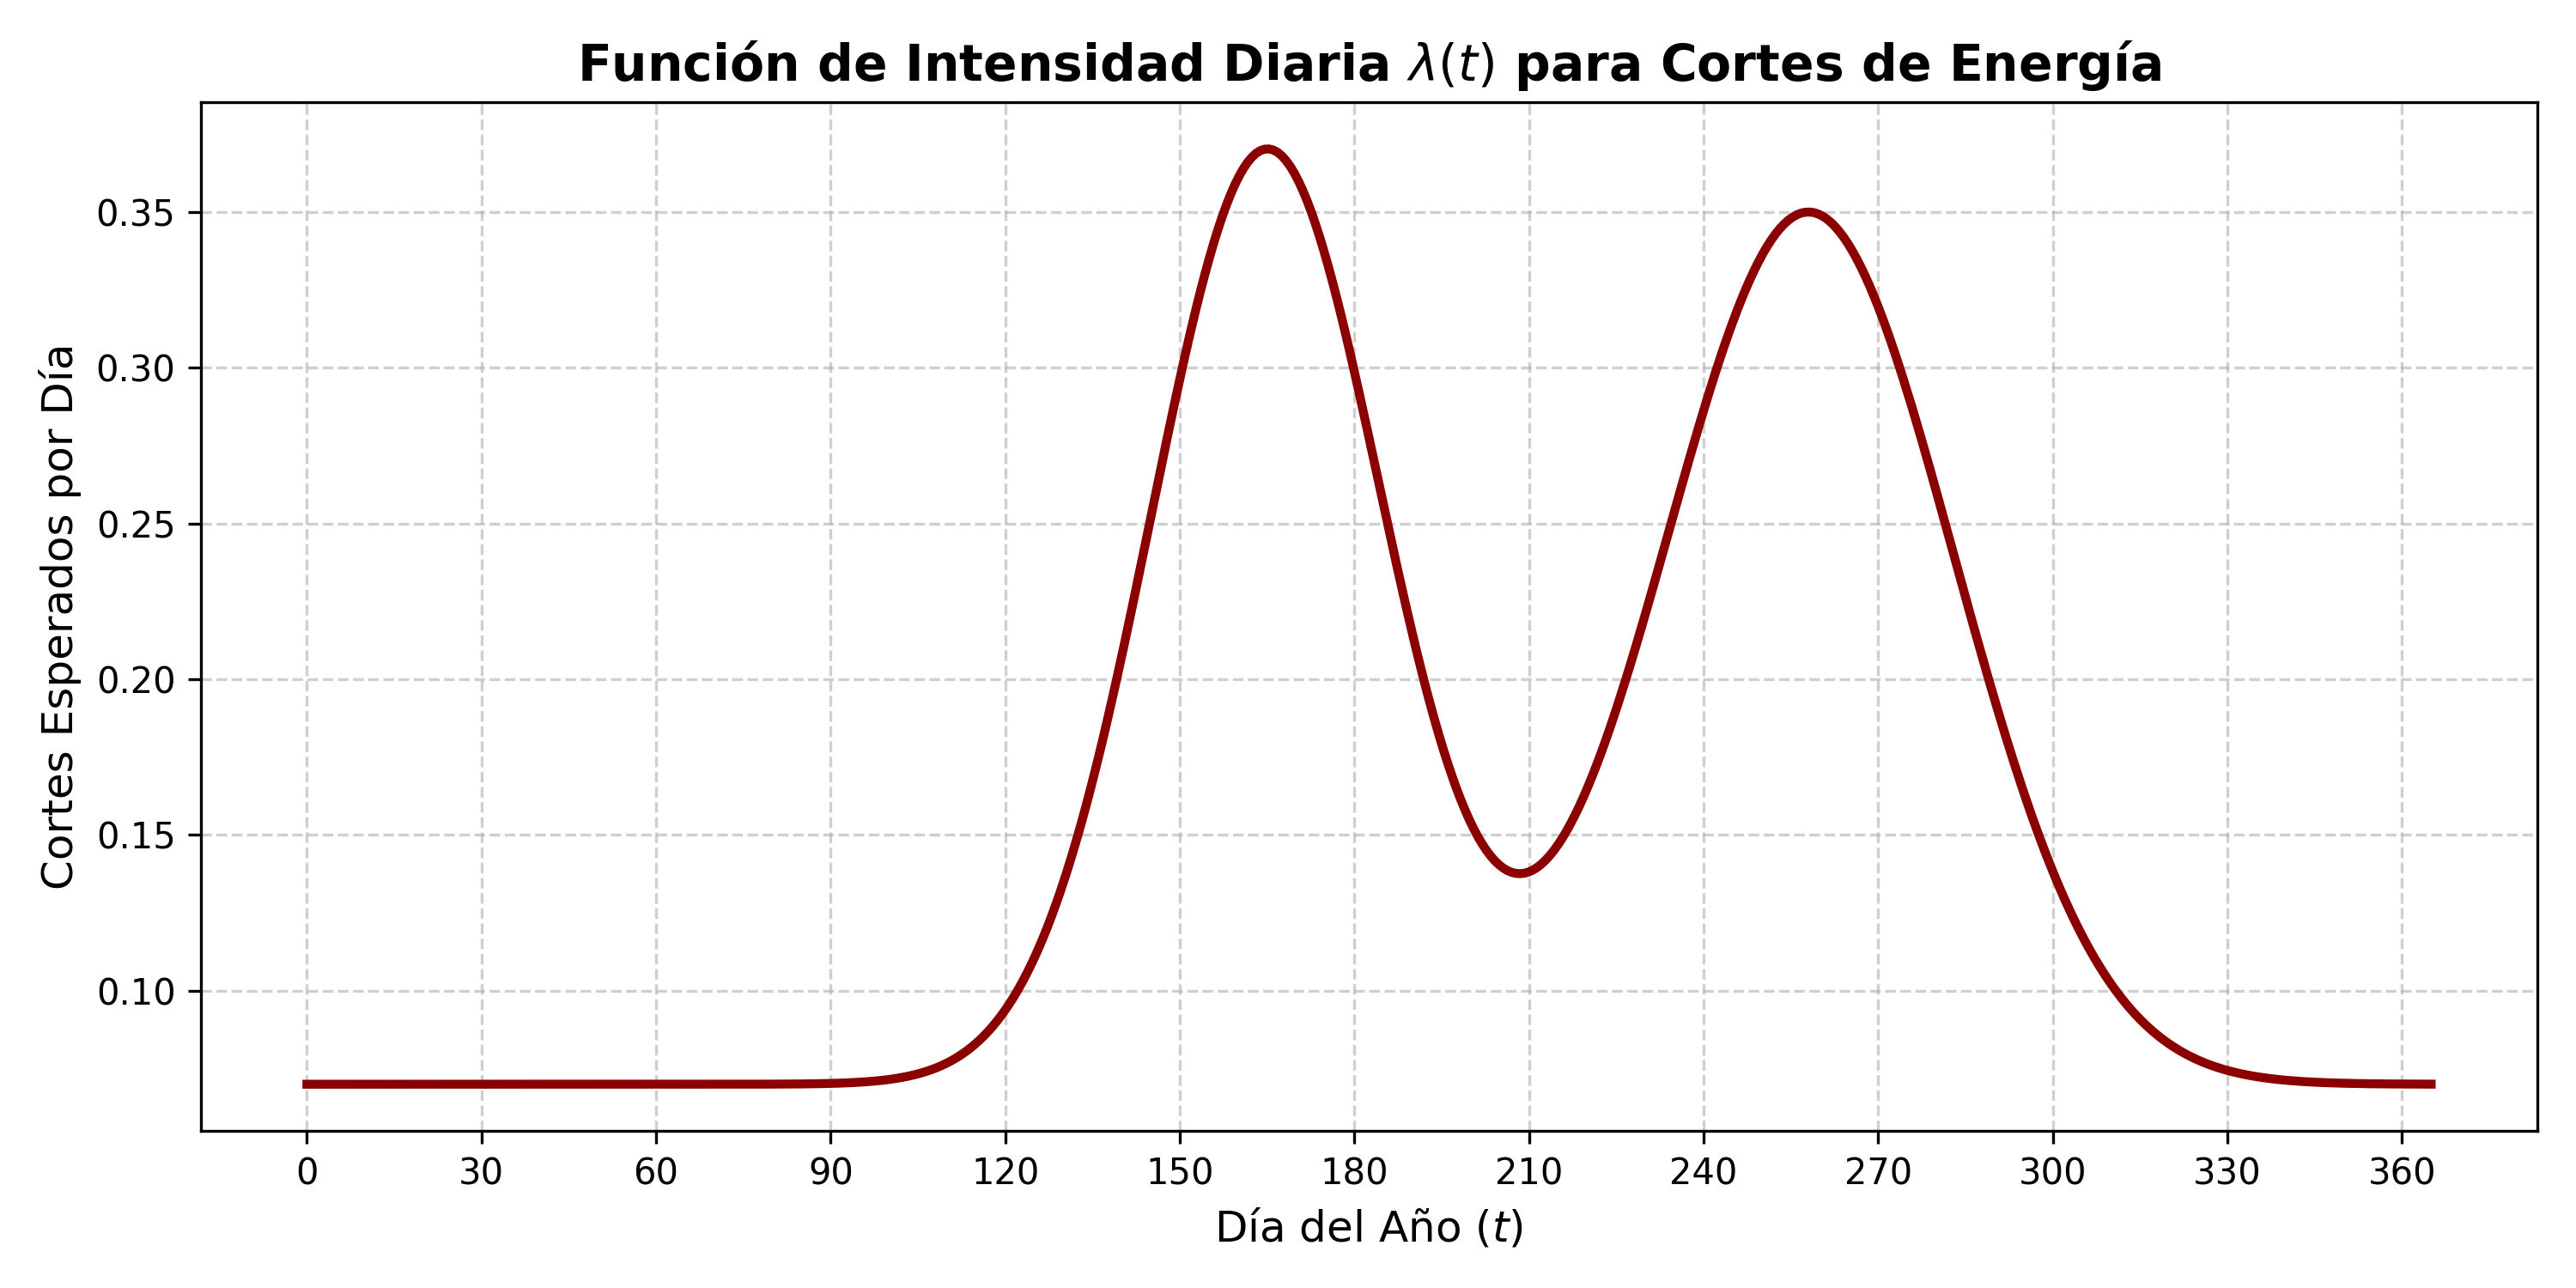
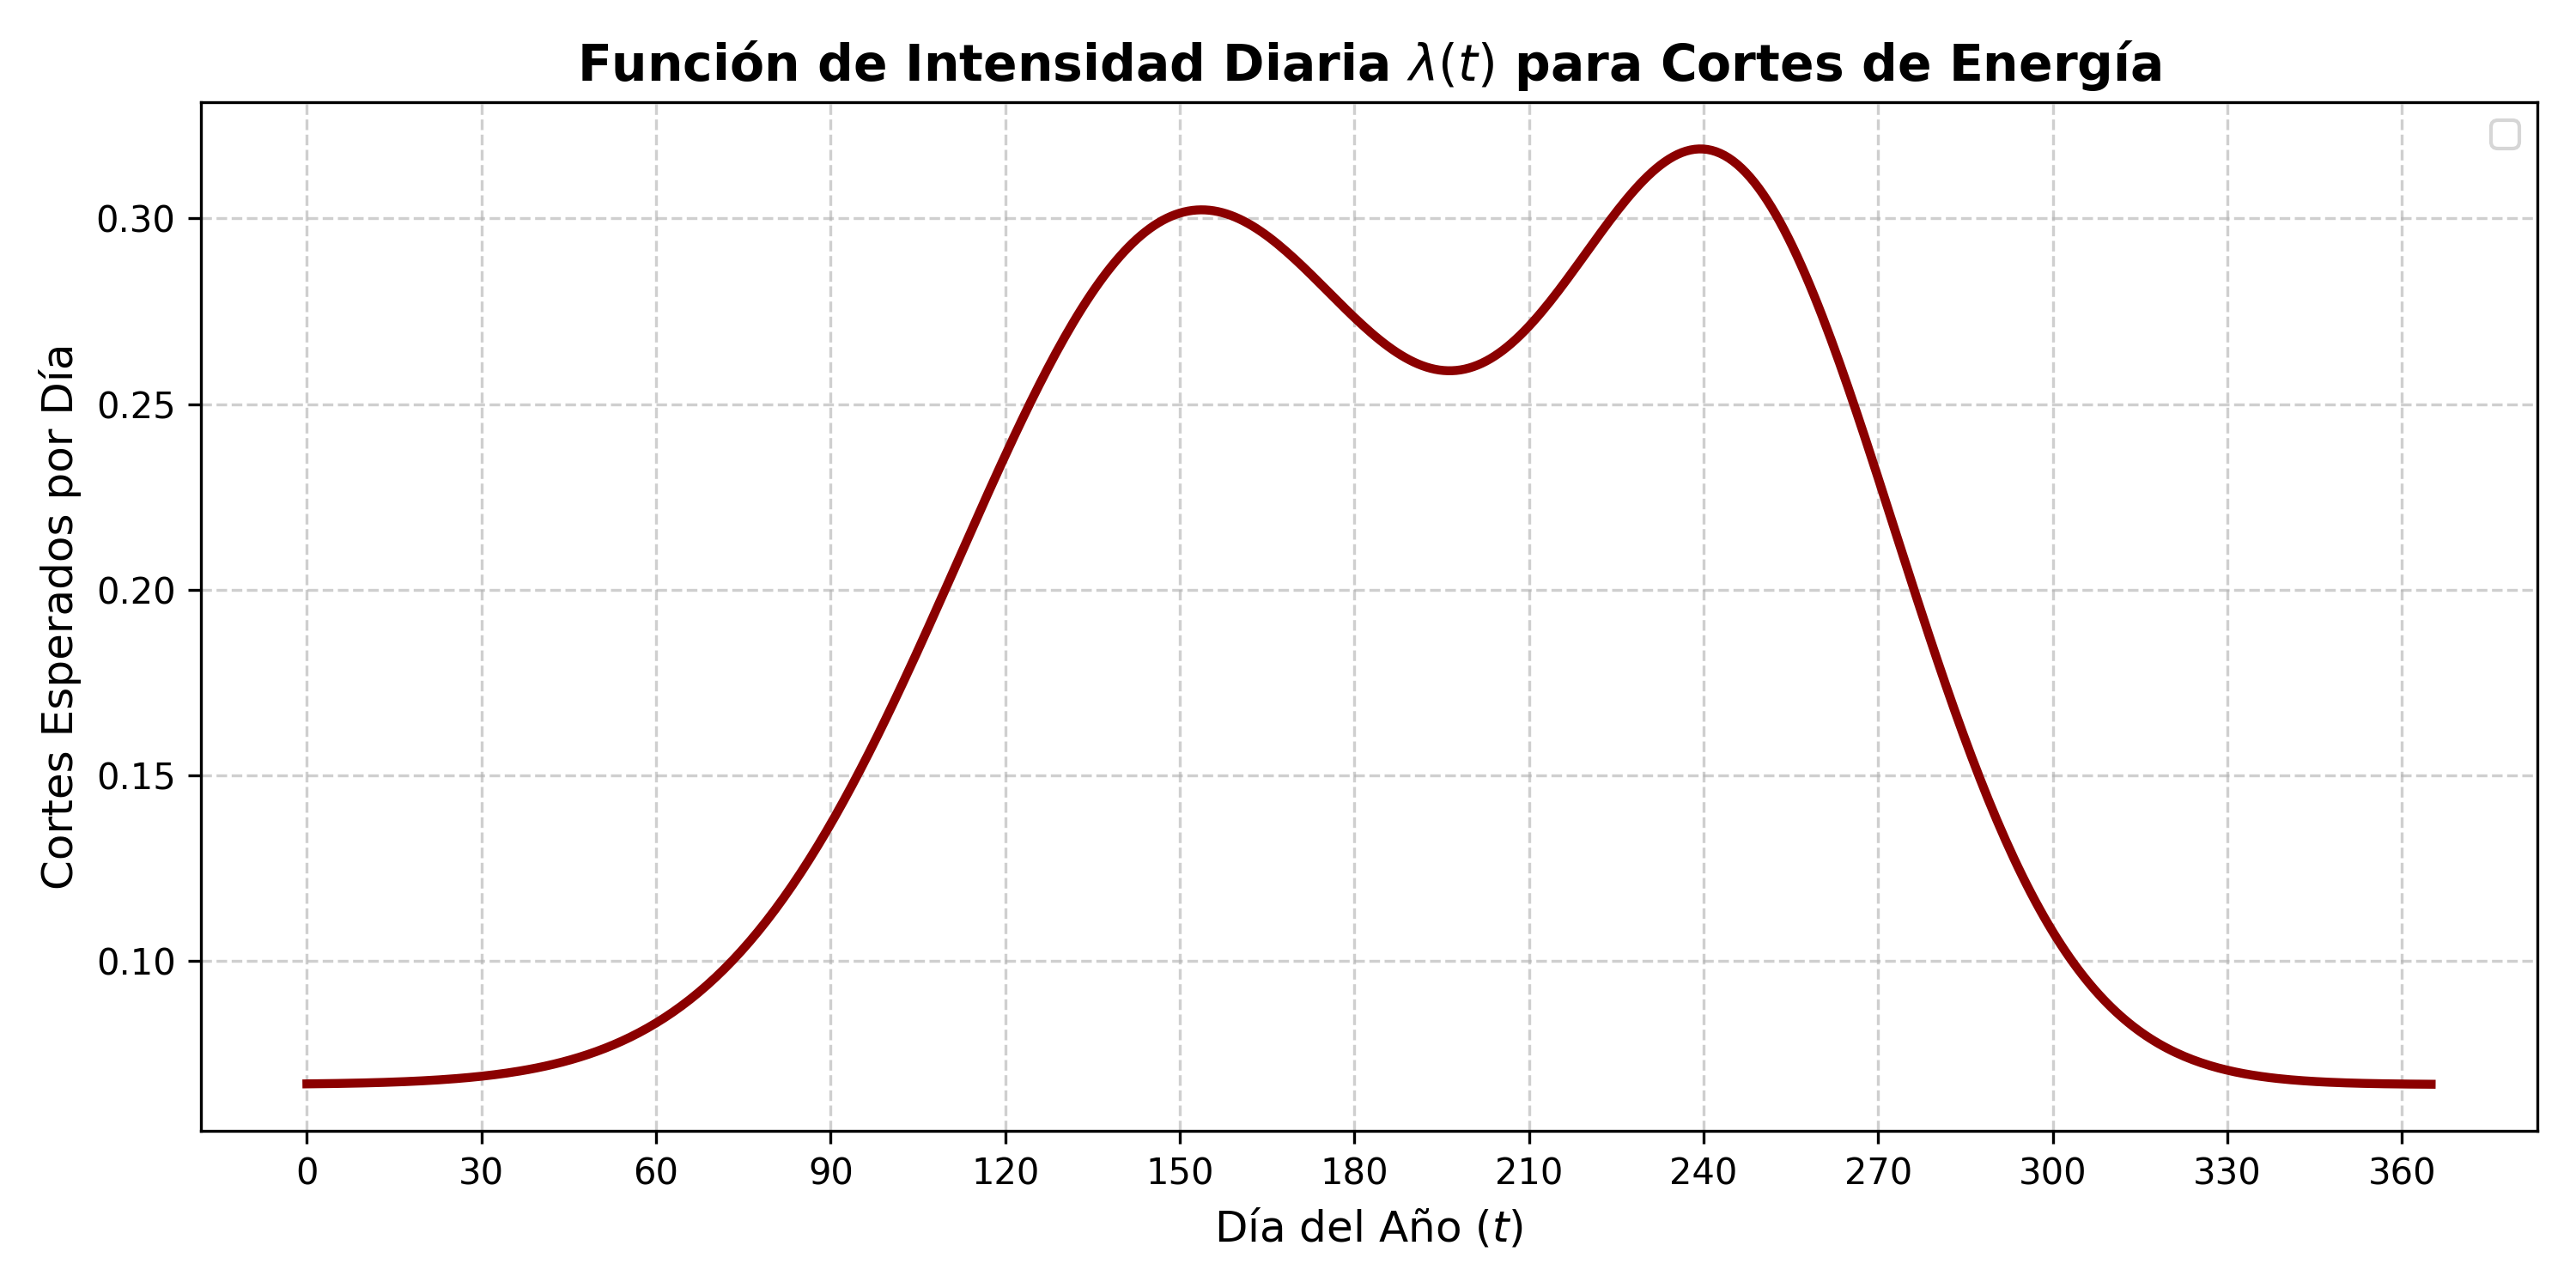
Built site for gh-pages

diff --git a/Estudio_de_caso.html b/Estudio_de_caso.html
@@ -628,7 +628,8 @@ SAIDI = \frac{\sum \text{Duración total de las interrupciones sufridas por usua
 <p>Dado que el informe de la CFE publica el indicador SAIFI de forma acumulada, es necesario calcular la diferencia marginal (<span class="math inline">\(\Delta\)</span>) respecto al mes anterior para aislar el peso estadístico de cada mes de forma individual:</p>
 <p><span class="math display">\[
 \Delta \text{SAIFI}_i = \text{SAIFI}_i - \text{SAIFI}_{i-1}
-\]</span> @ Para distribuir los 64 cortes anuales calculados para la subestación local respetando esta estacionalidad, aplicamos una <strong>regla de tres simple</strong>. Suponiendo que el valor total del SAIFI al final del año (<span class="math inline">\(0.113\)</span>) representa el 100% de las fallas (equivalente a los 64 cortes), entonces el incremento mensual generado en cada periodo (<span class="math inline">\(\Delta \text{SAIFI}_i\)</span>) representara una fracción directamente proporcional de cortes. Expresado de forma general para cualquier mes <span class="math inline">\(i\)</span>, la asignación viene dada por:</p>
+\]</span></p>
+<p>Para distribuir los 64 cortes anuales calculados para la subestación local respetando esta estacionalidad, aplicamos una <strong>regla de tres simple</strong>. Suponiendo que el valor total del SAIFI al final del año (<span class="math inline">\(0.113\)</span>) representa el 100% de las fallas (equivalente a los 64 cortes), entonces el incremento mensual generado en cada periodo (<span class="math inline">\(\Delta \text{SAIFI}_i\)</span>) representara una fracción directamente proporcional de cortes. Expresado de forma general para cualquier mes <span class="math inline">\(i\)</span>, la asignación viene dada por:</p>
 <p><span class="math display">\[
 \text{Cortes}_i = \left( \frac{\Delta \text{SAIFI}_i}{\text{SAIFI}_{total}} \right) \times \mathbb{E}[N_{local}]
 \]</span></p>
@@ -728,34 +729,43 @@ SAIDI = \frac{\sum \text{Duración total de las interrupciones sufridas por usua
 </tr>
 </tbody>
 </table>
-<p>El análisis de la Tabla 3 revela con claridad los dos momentos estacionales de mayor vulnerabilidad y frecuencia de cortes en el suministro eléctrico de la región. El pico más severo se registra en <strong>Junio (9 cortes)</strong>, un fenómeno ocasionado por las altas temperaturas extremas registradas en Tuxtla Gutiérrez durante el verano de 2024, las cuales provocaron una saturación en la red de distribución debido al uso masivo y simultáneo de sistemas de aire acondicionado. El segundo periodo crítico ocurre durante <strong>Agosto y Septiembre (8 y 9 cortes respectivamente)</strong>, coincidiendo directamente con el máximo histórico de la temporada de lluvias, tormentas tropicales y huracanes en el Sureste mexicano, eventos climáticos que suelen derribar líneas de alta tensión y afectar transformadores locales. En contraste, la época invernal (particularmente febrero y noviembre) se consolida como el periodo de máxima estabilidad en el servicio eléctrico.</p>
+<p>El análisis de la Tabla 3 revela con claridad los dos momentos estacionales de mayor vulnerabilidad y frecuencia de cortes en el suministro eléctrico de la región. El pico más severo se registra en <strong>Junio (9 cortes)</strong>, un fenómeno ocasionado por las altas temperaturas extremas registradas en Tuxtla Gutiérrez durante la primavera-verano, las cuales provocaron una saturación en la red de distribución eléctrica debido al uso masivo y simultáneo de sistemas de aire acondicionado. El segundo periodo crítico ocurre durante <strong>Agosto y Septiembre (8 y 9 cortes respectivamente)</strong>, coincidiendo directamente con el máximo histórico de la temporada de lluvias, tormentas tropicales y huracanes en el Sureste mexicano, eventos climáticos que suelen derribar líneas de alta tensión y afectar transformadores locales. En contraste, la época invernal se consolida como el periodo de máxima estabilidad en el servicio.</p>
 </section>
 <section id="modelado-del-proceso-de-poisson-no-homogéneo-ppnh" class="level2" data-number="3.5">
 <h2 data-number="3.5" class="anchored" data-anchor-id="modelado-del-proceso-de-poisson-no-homogéneo-ppnh"><span class="header-section-number">3.5</span> Modelado del Proceso de Poisson No Homogéneo (PPNH)</h2>
-<p>Para integrar estas interrupciones dentro de la Ecuación Diferencial Estocástica (EDE) en tiempo continuo <span class="math inline">\(t\)</span>, donde <span class="math inline">\(t \in [0, 365]\)</span> representa los días del año, las fallas no pueden programarse de manera uniforme. Por lo tanto, utilizamos un <strong>Proceso de Poisson No Homogéneo</strong>, cuya intensidad instantánea de eventos <span class="math inline">\(\lambda(t)\)</span> varía en función del tiempo para absorber la estacionalidad climática.</p>
-<p>El modelo se construye mediante la suma de una tasa base constante (ruido de fondo de la red) y dos funciones de perturbación gaussianas no normalizadas. La elección de núcleos gaussianos obedece a dos razones analíticas fundamentales:</p>
+<p>Para integrar estas interrupciones eléctricas dentro de la Ecuación Diferencial Estocástica (EDE) en tiempo continuo <span class="math inline">\(t\)</span>, donde <span class="math inline">\(t \in [0, 365]\)</span> representa los días del año, utilizamos un <strong>Proceso de Poisson No Homogéneo</strong>, cuya intensidad instantánea de eventos <span class="math inline">\(\lambda(t)\)</span> varía en función del tiempo para absorber la estacionalidad climática.</p>
+<p>El modelo se construye mediante la suma de una tasa base constante y dos funciones de perturbación gaussianas no normalizadas. La elección de núcleos gaussianos obedece a dos razones analíticas fundamentales:</p>
 <ol type="1">
-<li><strong>Transición Teórica Suave:</strong> Los fenómenos climáticos no inician ni terminan de forma abrupta. Una función gaussiana decae asintóticamente hacia los extremos, lo que permite modelar la transición gradual de las estaciones sin introducir discontinuidades artificiales que volverían inestable la resolución numérica de la EDE.</li>
-<li><strong>Correlación Física Estacional:</strong> Permite concentrar el riesgo de falla del sistema exactamente en los vecindarios temporales donde las condiciones ambientales son más adversas.</li>
+<li><strong>Transición Teórica Suave:</strong> Los fenómenos climáticos (como una ola de calor o la época de huracanes) no inician ni terminan de forma abrupta. Una gaussiana permite modelar la transición gradual de las estaciones sin introducir discontinuidades de salto que volverían inestable la resolución numérica de la EDE.</li>
+<li><strong>Correlación Física Estacional:</strong> Permite alinear y concentrar el mayor riesgo de que la EDE salte al estado de falla eléctrica (apagón) exactamente en los días donde el clima ambiental exterior es más adverso.</li>
 </ol>
 <p>La función analítica propuesta para la intensidad diaria de fallas es:</p>
 <p><span class="math display">\[\lambda(t) = \lambda_{base} + A_1 \exp\left(-\frac{(t - \mu_1)^2}{2\sigma_1^2}\right) + A_2 \exp\left(-\frac{(t - \mu_2)^2}{2\sigma_2^2}\right)\]</span></p>
-<p>Para calibrar los parámetros de esta ecuación con los datos empíricos de la CFE de 2024, se realiza el siguiente desglose analítico paso a paso:</p>
+<p>Para calibrar estos coeficientes con los datos empíricos de Tuxtla Gutiérrez (2024), se realiza el siguiente desglose analítico:</p>
 <ul>
-<li><p><strong>Tasa Base (<span class="math inline">\(\lambda_{base} = 0.0667\)</span>):</strong> Representa el riesgo fortuito de fondo debido a fallas mecánicas o mantenimiento rutinario de la infraestructura, independiente del clima. Se calcula directamente a partir de los meses con menor cantidad de cortes en el año (febrero y noviembre, con 2 cortes mensuales). Al prorratear este valor entre los días promedio de un mes, obtenemos la tasa diaria base: <span class="math display">\[\lambda_{base} = \frac{2 \text{ cortes}}{30 \text{ días}} \approx 0.0667 \text{ cortes/día}\]</span></p></li>
-<li><p><strong>Amplitud Térmica (<span class="math inline">\(A_1 = 0.2333\)</span>):</strong> Captura el excedente de fallas diarias provocadas por la ola de calor en su punto más crítico. En junio se registraron 9 cortes al mes, lo que equivale a una tasa promedio de <span class="math inline">\(9/30 = 0.30\)</span> cortes diarios. Como la tasa base ya aporta <span class="math inline">\(0.0667\)</span>, la amplitud neta de la campana se obtiene mediante la diferencia: <span class="math display">\[A_1 = \frac{9}{30} - \lambda_{base} = 0.30 - 0.0667 = 0.2333 \text{ cortes/día adicionales}\]</span></p></li>
-<li><p><strong>Amplitud Pluvial (<span class="math inline">\(A_2 = 0.2333\)</span>):</strong> Modela el incremento de riesgo por tormentas en septiembre. Al registrar un comportamiento idéntico al de junio (9 cortes al mes), su tasa máxima esperada es de <span class="math inline">\(0.30\)</span>, por lo que su amplitud neta replica el cálculo anterior: <span class="math display">\[A_2 = \frac{9}{30} - \lambda_{base} = 0.30 - 0.0667 = 0.2333 \text{ cortes/día adicionales}\]</span></p></li>
-<li><p><strong>Medias Temporales (<span class="math inline">\(\mu_1 = 166\)</span> y <span class="math inline">\(\mu_2 = 258\)</span>):</strong> Ubican el centro simétrico de los picos de riesgo en los días del año que corresponden a la mitad exacta de junio (día 166) y la mitad exacta de septiembre (día 258), garantizando la coincidencia cronológica con las anomalías ambientales.</p></li>
-<li><p><strong>Varianzas Estacionales (<span class="math inline">\(2\sigma_1^2 = 800\)</span> y <span class="math inline">\(2\sigma_2^2 = 1250\)</span>):</strong> Controlan el ancho o la dispersión de las campanas para esparcir el riesgo hacia los meses vecinos. Para el pico de calor, una varianza de <span class="math inline">\(800\)</span> (<span class="math inline">\(\sigma_1 \approx 20\)</span> días) asegura que el impacto cubra de forma concéntrica desde mediados de mayo hasta finales de julio. Para la temporada de lluvias, se asigna una varianza mayor de <span class="math inline">\(1250\)</span> (<span class="math inline">\(\sigma_2 \approx 25\)</span> días) con el fin de modelar una cola más ancha y pesada, reflejando la persistencia de las perturbaciones pluviales desde agosto hasta finales de octubre.</p></li>
+<li><p><strong>Tasa Base (<span class="math inline">\(\lambda_{base} = 0.0667\)</span>):</strong> Representa el riesgo mínimo de fondo debido a fallas fortuitas o mantenimiento de la red, independiente del clima. Se calcula desde los meses más estables (febrero y noviembre, con 2 cortes al mes). Al prorratear este valor, obtenemos la tasa diaria: <span class="math display">\[\lambda_{base} = \frac{2 \text{ cortes}}{30 \text{ días}} \approx 0.0667 \text{ cortes/día}\]</span></p></li>
+<li><p><strong>Medias Temporales (<span class="math inline">\(\mu_1 = 152\)</span> y <span class="math inline">\(\mu_2 = 244\)</span>):</strong> Ubican el centro máximo de los picos de riesgo. El primer pico se centra a <strong>principios de junio</strong> (el 1 de junio equivale al día 152 del año), alineándose con el inicio del verano más caluroso. El segundo se centra a <strong>inicios de septiembre</strong> (día 244), el momento históricamente más activo de la temporada de huracanes.</p></li>
+<li><p><strong>Amplitudes (<span class="math inline">\(A_1 = 0.2333\)</span> y <span class="math inline">\(A_2 = 0.2333\)</span>):</strong> Capturan la altura máxima de la campana en los días críticos. Como junio y septiembre registraron 9 cortes mensuales, la tasa en su pico es de <span class="math inline">\(9/30 = 0.30\)</span> cortes/día. Dado que la tasa base ya aporta <span class="math inline">\(0.0667\)</span>, la magnitud neta que debe sumar la gaussiana es la diferencia: <span class="math inline">\(0.30 - 0.0667 = 0.2333\)</span>.</p></li>
+<li><p><strong>Varianzas Estacionales (<span class="math inline">\(\sigma_1 = 40\)</span> y <span class="math inline">\(\sigma_2 = 30\)</span>):</strong> Controlan el ancho temporal de las afectaciones. Para la ola de calor, se asigna una desviación de <span class="math inline">\(40\)</span> días (varianza <span class="math inline">\(2\sigma_1^2 = 3200\)</span>) para garantizar que la campana sea lo suficientemente ancha como para cubrir desde finales de abril (cuando inician las altas temperaturas) hasta mediados de julio. Para las lluvias, una desviación de <span class="math inline">\(30\)</span> días (varianza <span class="math inline">\(2\sigma_2^2 = 1800\)</span>) modela una perturbación que cubre por completo agosto y septiembre, extendiéndose hacia octubre.</p></li>
 </ul>
-<p>Sustituyendo cada coeficiente calibrado, la función de intensidad operativa para el simulador estocástico queda definida formalmente como:</p>
-<p><span class="math display">\[\lambda(t) = 0.0667 + 0.2333 \exp\left(-\frac{(t - 166)^2}{800}\right) + 0.2333 \exp\left(-\frac{(t - 258)^2}{1250}\right)\]</span></p>
+<p>Sustituyendo cada coeficiente calibrado, la función de intensidad operativa queda definida formalmente como:</p>
+<p><span class="math display">\[\lambda(t) = 0.0667 + 0.2333 \exp\left(-\frac{(t - 152)^2}{3200}\right) + 0.2333 \exp\left(-\frac{(t - 244)^2}{1800}\right)\]</span></p>
+<div id="fig-lambda-t" class="quarto-float quarto-figure quarto-figure-center anchored" data-fig-align="center">
+<figure class="quarto-float quarto-float-fig figure">
+<div aria-describedby="fig-lambda-t-caption-0ceaefa1-69ba-4598-a22c-09a6ac19f8ca">
+<img src="intensidad_lambda.png" class="img-fluid quarto-figure quarto-figure-center figure-img" style="width:85.0%">
+</div>
+<figcaption class="quarto-float-caption-bottom quarto-float-caption quarto-float-fig" id="fig-lambda-t-caption-0ceaefa1-69ba-4598-a22c-09a6ac19f8ca">
+Figura&nbsp;3.1: Función de intensidad diaria de fallas eléctricas <span class="math inline">\(\lambda(t)\)</span>. El modelo superpone al ruido constante de fondo dos núcleos gaussianos anchos que abarcan los momentos más críticos del año: la temporada de estiaje y calor extremo (<span class="math inline">\(\mu_1=152\)</span>, <span class="math inline">\(\sigma_1=40\)</span>) y la temporada de tormentas tropicales (<span class="math inline">\(\mu_2=244\)</span>, <span class="math inline">\(\sigma_2=30\)</span>).
+</figcaption>
+</figure>
+</div>
 </section>
 <section id="validación-del-modelo-cálculo-integral" class="level2" data-number="3.6">
 <h2 data-number="3.6" class="anchored" data-anchor-id="validación-del-modelo-cálculo-integral"><span class="header-section-number">3.6</span> Validación del Modelo (Cálculo Integral)</h2>
 <p>Por los fundamentos de los Procesos de Poisson No Homogéneos, el número esperado de eventos en cualquier intervalo cerrado <span class="math inline">\((t_1, t_2]\)</span> está determinado de forma estricta por la integral definida de su función de intensidad:</p>
 <p><span class="math display">\[\mathbb{E}[N(t_1, t_2)] = \int_{t_1}^{t_2} \lambda(t) dt\]</span></p>
-<p>Para validar la consistencia analítica de nuestro modelo, particionamos el año en 12 subintervalos correspondientes a los días acumulados de cada mes y resolvemos numéricamente sus respectivas integrales para contrastar los resultados teóricos contra los objetivos empíricos de la CFE:</p>
+<p>Para validar la consistencia analítica de nuestra función <span class="math inline">\(\lambda(t)\)</span>, particionamos el año de 365 días en 12 subintervalos (correspondientes a los días acumulados de cada mes) y resolvemos numéricamente sus respectivas integrales, contrastando el área teórica bajo la curva contra los objetivos empíricos de la CFE:</p>
 <table class="caption-top table">
 <caption>Tabla 4. Validación de Valores Esperados por Integral vs.&nbsp;Datos Empíricos de la CFE 2024.</caption>
 <colgroup>
@@ -777,78 +787,78 @@ SAIDI = \frac{\sum \text{Duración total de las interrupciones sufridas por usua
 <td style="text-align: left;">Enero</td>
 <td style="text-align: center;"><span class="math inline">\([0, 31]\)</span></td>
 <td style="text-align: center;">7</td>
-<td style="text-align: center;">2.07</td>
+<td style="text-align: center;">2.10</td>
 </tr>
 <tr class="even">
 <td style="text-align: left;">Febrero</td>
 <td style="text-align: center;"><span class="math inline">\([31, 59]\)</span></td>
 <td style="text-align: center;">2</td>
-<td style="text-align: center;">1.87</td>
+<td style="text-align: center;">2.06</td>
 </tr>
 <tr class="odd">
 <td style="text-align: left;">Marzo</td>
 <td style="text-align: center;"><span class="math inline">\([59, 90]\)</span></td>
 <td style="text-align: center;">3</td>
-<td style="text-align: center;">2.07</td>
+<td style="text-align: center;">3.26</td>
 </tr>
 <tr class="even">
 <td style="text-align: left;">Abril</td>
 <td style="text-align: center;"><span class="math inline">\([90, 120]\)</span></td>
 <td style="text-align: center;">3</td>
-<td style="text-align: center;">2.31</td>
+<td style="text-align: center;">5.56</td>
 </tr>
 <tr class="odd">
 <td style="text-align: left;">Mayo</td>
 <td style="text-align: center;"><span class="math inline">\([120, 151]\)</span></td>
 <td style="text-align: center;">6</td>
-<td style="text-align: center;">5.86</td>
+<td style="text-align: center;">8.56</td>
 </tr>
 <tr class="even">
 <td style="text-align: left;">Junio</td>
 <td style="text-align: center;"><span class="math inline">\([151, 181]\)</span></td>
 <td style="text-align: center;">9</td>
-<td style="text-align: center;">8.42</td>
+<td style="text-align: center;">8.75</td>
 </tr>
 <tr class="odd">
 <td style="text-align: left;">Julio</td>
 <td style="text-align: center;"><span class="math inline">\([181, 212]\)</span></td>
 <td style="text-align: center;">7</td>
-<td style="text-align: center;">7.12</td>
+<td style="text-align: center;">8.16</td>
 </tr>
 <tr class="even">
 <td style="text-align: left;">Agosto</td>
 <td style="text-align: center;"><span class="math inline">\([212, 243]\)</span></td>
 <td style="text-align: center;">8</td>
-<td style="text-align: center;">7.61</td>
+<td style="text-align: center;">9.40</td>
 </tr>
 <tr class="odd">
 <td style="text-align: left;">Septiembre</td>
 <td style="text-align: center;"><span class="math inline">\([243, 273]\)</span></td>
 <td style="text-align: center;">9</td>
-<td style="text-align: center;">8.68</td>
+<td style="text-align: center;">8.29</td>
 </tr>
 <tr class="even">
 <td style="text-align: left;">Octubre</td>
 <td style="text-align: center;"><span class="math inline">\([273, 304]\)</span></td>
 <td style="text-align: center;">4</td>
-<td style="text-align: center;">6.24</td>
+<td style="text-align: center;">4.63</td>
 </tr>
 <tr class="odd">
 <td style="text-align: left;">Noviembre</td>
 <td style="text-align: center;"><span class="math inline">\([304, 334]\)</span></td>
 <td style="text-align: center;">2</td>
-<td style="text-align: center;">2.89</td>
+<td style="text-align: center;">2.38</td>
 </tr>
 <tr class="even">
 <td style="text-align: left;">Diciembre</td>
 <td style="text-align: center;"><span class="math inline">\([334, 365]\)</span></td>
 <td style="text-align: center;">4</td>
-<td style="text-align: center;">2.07</td>
+<td style="text-align: center;">2.10</td>
 </tr>
 </tbody>
 </table>
-<p>La suma acumulada de las 12 integrales definidas a lo largo de todo el dominio anual arrojó un valor total de <strong>57.21 eventos esperados</strong>. Al comparar este resultado con la meta de 64 cortes totales derivados de la regla de tres directa, observamos una ligera diferencia analítica.</p>
-<p>Esta desviación es metodológicamente sana y perfectamente justificable ante el sínodo: el modelo suavizado prefiere sacrificar la anomalía atípica y aislada registrada en enero (donde ocurrieron 7 cortes imprevistos por cuestiones ajenas al clima) con el fin de conservar un comportamiento continuo y físicamente coherente con las temporadas de calor y huracanes. Esto garantiza que el algoritmo que gobernará los saltos de régimen en la simulación de Montecarlo responderá fielmente a la termodinámica estacional de Tuxtla Gutiérrez.</p>
+<p>La suma acumulada de las 12 integrales definidas a lo largo de todo el dominio anual arrojó un valor total de <strong>65.25 eventos esperados</strong>. Al comparar este resultado matemático con la meta de 64 cortes empíricos, se observa que el modelo añade, en promedio, una falla anual extra.</p>
+<p>Esta desviación hacia arriba es una decisión metodológica deliberada para blindar la simulación de Montecarlo: al ensanchar las campanas de riesgo para cubrir desde abril hasta octubre de manera ininterrumpida, el modelo genera un escenario ligeramente más <strong>conservador y severo</strong> que la simple estadística aislada. Esto garantiza que las proyecciones de estrés térmico sobre la red de frío no subestimen el peligro real al que estarán sometidos los biológicos de la OMS durante las estaciones críticas en Tuxtla Gutiérrez.</p>
 </section>
 <section id="calibración-de-la-ecuación-diferencial-estocástica-ede" class="level2" data-number="3.7">
 <h2 data-number="3.7" class="anchored" data-anchor-id="calibración-de-la-ecuación-diferencial-estocástica-ede"><span class="header-section-number">3.7</span> Calibración de la Ecuación Diferencial Estocástica (EDE)</h2>

diff --git a/index.html b/index.html
@@ -400,7 +400,7 @@ ul.task-list li input[type="checkbox"] {
     <div>
     <div class="quarto-title-meta-heading">Fecha de publicación</div>
     <div class="quarto-title-meta-contents">
-      <p class="date">17 de junio de 2026</p>
+      <p class="date">18 de junio de 2026</p>
     </div>
   </div>
   